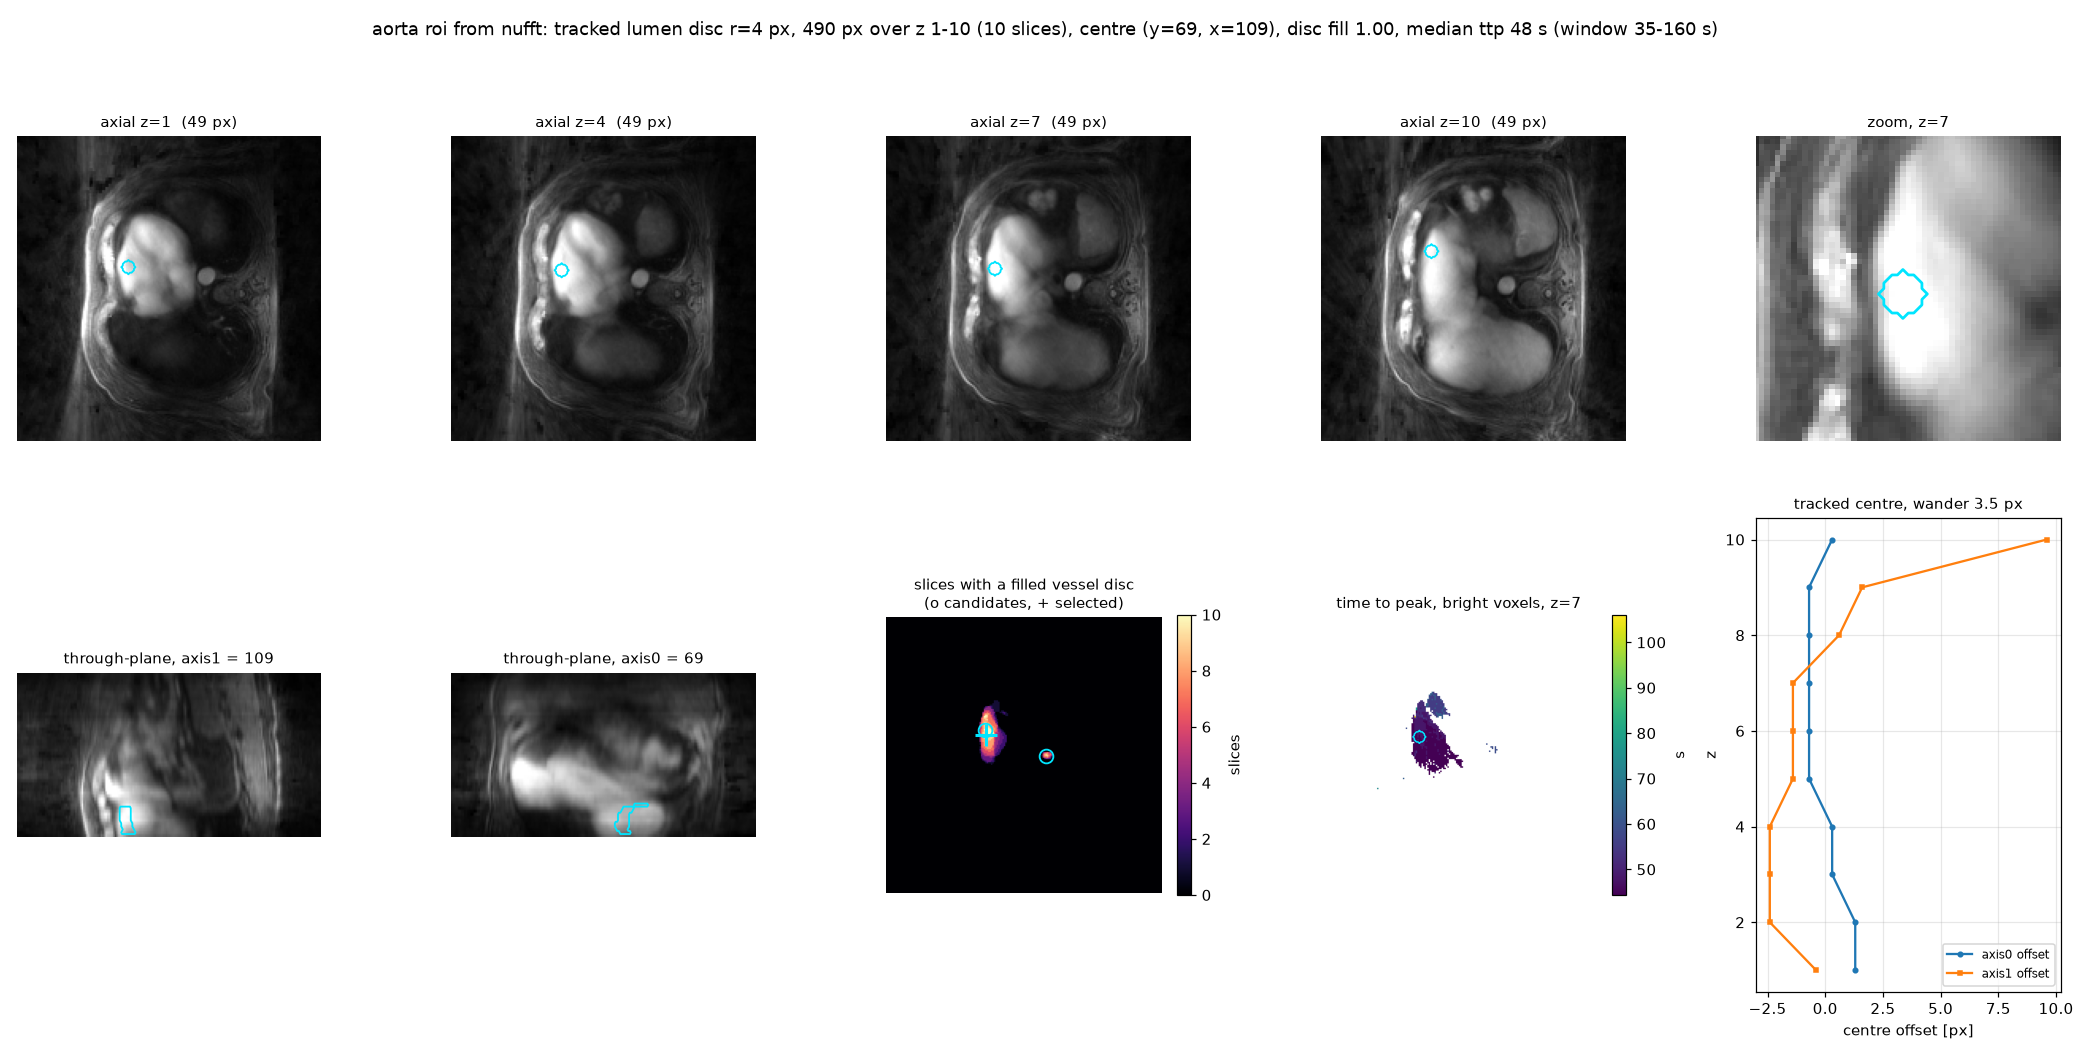
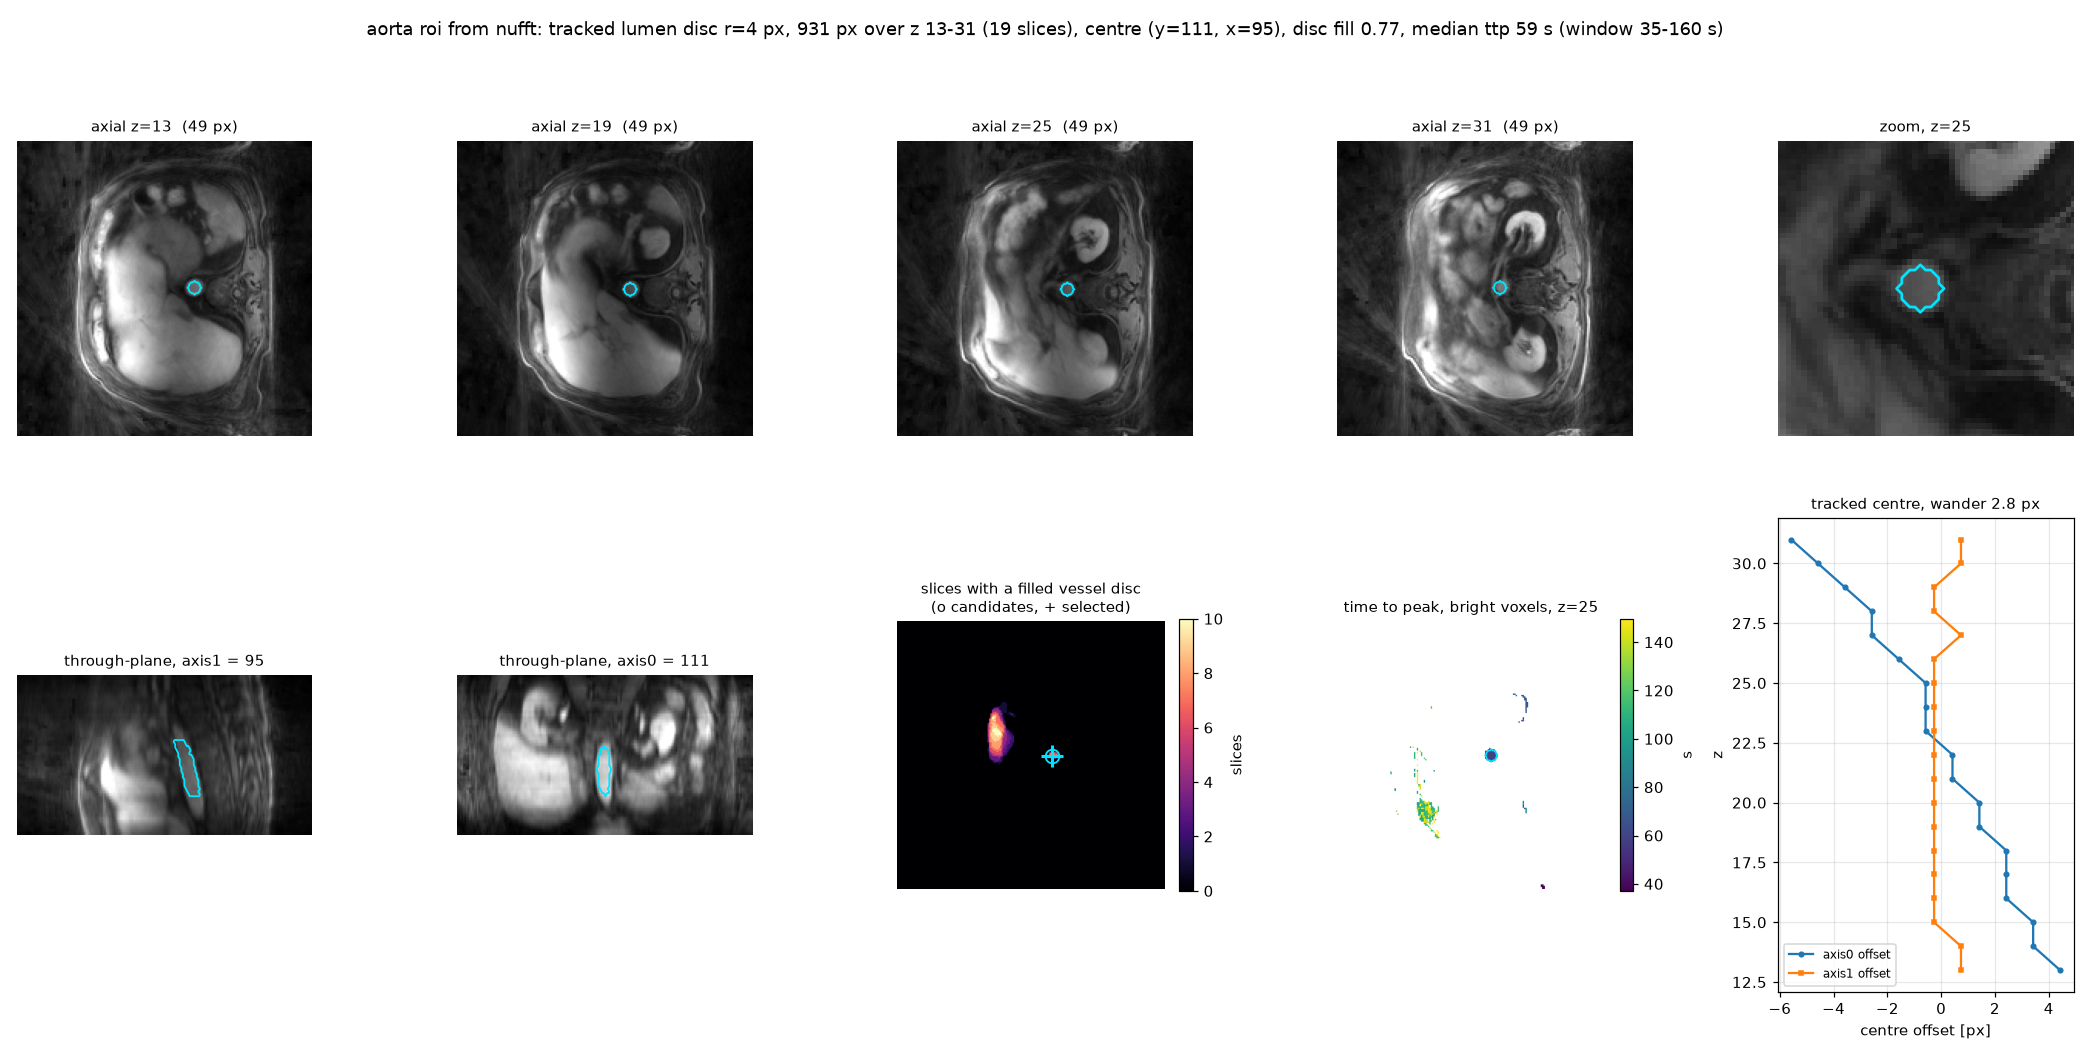
agent 2026-09-18 22:25 worker05.cluster: 8 files

diff --git a/results/dce_rerun_gv2/aorta.md b/results/dce_rerun_gv2/aorta.md
@@ -1,25 +1,24 @@
 # aorta median intensity curves, DCE_Rerun grasp v2
 
-roi: tracked lumen disc r=4 px (17 mm across), 490 px over z 1-10 (10 slices), centre (y=69, x=109), centroid wander 3.5 px, median ttp 48 s
-found on **nufft** (method-neutral) by a vessel-disc matched filter (r=5 px, fill >= 0.7) over voxels above 0.45 of the 99.9th percentile peak with ttp <= 70 s and more than 15 px inside the body, tracked in z, then the earliest median ttp of 2 tube candidates; identical roi for every tag
+roi: tracked lumen disc r=4 px (17 mm across), 931 px over z 13-31 (19 slices), centre (y=111, x=95), centroid wander 2.8 px, median ttp 59 s
+found on **nufft** (method-neutral) by a vessel-disc matched filter (r=5 px, fill >= 0.7) over voxels above 0.45 of the 99.9th percentile peak with ttp <= 70 s and more than 15 px inside the body, tracked in z, then the earliest median ttp of 1 tube candidates; identical roi for every tag
 a fixed lumen disc is used rather than a brightness-thresholded mask, which would bias the median toward the brightest voxels and inflate the peak
 
 | tag | baseline [1e-5] | peak [1e-5] | rel. peak | ttp [s] | plateau/peak |
 |---|---|---|---|---|---|
-| nufft | 1.17 | 7.14 | +513% | 48 | 0.22 |
-| lam0.02 | 2.43 | 14.08 | +480% | 44 | 0.21 |
-| lam0.08 | 2.46 | 12.96 | +427% | 44 | 0.22 |
-| lam0.25 | 2.29 | 10.59 | +363% | 48 | 0.25 |
-| glam0.02 | 2.45 | 14.16 | +479% | 44 | 0.21 |
-| glam0.08 | 2.47 | 13.49 | +446% | 44 | 0.21 |
-| glam0.25 | 2.19 | 10.71 | +390% | 44 | 0.24 |
+| nufft | 0.49 | 4.42 | +794% | 59 | 0.15 |
+| lam0.02 | 0.87 | 8.49 | +878% | 59 | 0.17 |
+| lam0.08 | 0.88 | 7.70 | +773% | 59 | 0.19 |
+| lam0.25 | 0.87 | 6.16 | +611% | 59 | 0.22 |
+| glam0.02 | 0.87 | 8.52 | +884% | 59 | 0.17 |
+| glam0.08 | 0.88 | 7.79 | +783% | 59 | 0.19 |
+| glam0.25 | 0.90 | 6.53 | +626% | 59 | 0.22 |
 
 tube candidates (the selected one is the earliest):
 
-| centre (y, x) | slices | z range | disc fill | wander px | median ttp s | median peak |
-|---|---|---|---|---|---|---|
-| (68, 113) **selected** | 10 | 1-10 | 1.00 | 3.5 | 48.0 | 6.408e-05 |
-| (111, 95) | 13 | 14-26 | 0.88 | 1.6 | 58.9 | 4.021e-05 |
+| centre (y, x) | slices | z range | disc fill | wander px | core px | median ttp s | median peak |
+|---|---|---|---|---|---|---|---|
+| (111, 95) **selected** | 19 | 13-31 | 0.77 | 2.8 | 7 | 58.9 | 3.957e-05 |
 
 files: aorta_roi_check.png (roi on anatomy, axial + both through-plane cuts + coverage and timing maps + centre track), aorta_curves.png, aorta_curves.csv, aorta_roi.npz
 override with AORTA_YX="y,x" and ZRANGE="z0,z1" if the overlay shows the disc off the vessel

diff --git a/jobs/agent/status.md b/jobs/agent/status.md
@@ -1,18 +1,17 @@
 # helios agent
 
-updated 2026-09-18 22:23:54 on worker05.cluster, job 3326244, cycle 34
+updated 2026-09-18 22:25:58 on worker05.cluster, job 3326244, cycle 35
 
 ## active
 
 | jid | script | state |
 |---|---|---|
-| 3327624 | 062_gv2_aorta | 1 PENDING None |
 
 ## done (last 20)
 
 | name | state |
 |---|---|
-| 062_gv2_aorta | 1 PENDING None |
+| 062_gv2_aorta | 1 COMPLETED 00:00:30 |
 | 061_gv2_aorta | 1 COMPLETED 00:00:34 |
 | 060_gv2_aorta | 1 COMPLETED 00:00:38 |
 | 059_kprior_v2 | 1 COMPLETED 02:11:24, 1 COMPLETED 02:11:34, 1 COMPLETED 02:38:10, 1 COMPLETED 02:38:23 |
